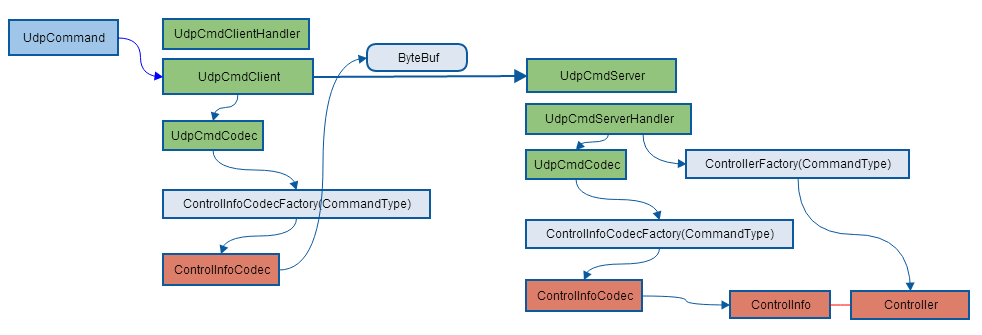
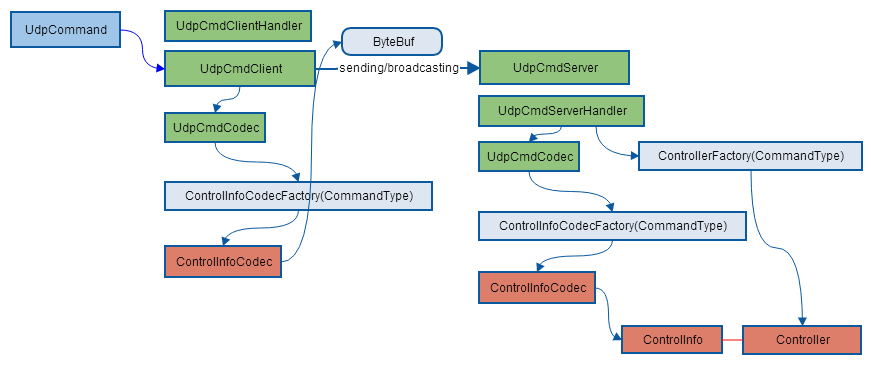
add readme for netty udp cmd

diff --git a/java/air-io-network/src/main/java/org/feuyeux/air/io/network/netty/udp/cmd2/core/UdpCmdClient.java b/java/air-io-network/src/main/java/org/feuyeux/air/io/network/netty/udp/cmd2/core/UdpCmdClient.java
@@ -25,20 +25,51 @@ public class UdpCmdClient {
         try {
             Bootstrap b = new Bootstrap();
             b.group(group)
-                    .channel(NioDatagramChannel.class)
-                    .option(ChannelOption.SO_BROADCAST, true)
-                    .handler(new ChannelInitializer<DatagramChannel>() {
-                        @Override
-                        public void initChannel(DatagramChannel ch) throws Exception {
-                            ch.pipeline().addLast(
-                                    //new LoggingHandler(LogLevel.INFO),
-                                    new UdpCmdClientHandler());
-                        }
-                    });
+              .channel(NioDatagramChannel.class)
+              .handler(new ChannelInitializer<DatagramChannel>() {
+                  @Override
+                  public void initChannel(DatagramChannel ch) throws Exception {
+                      ch.pipeline().addLast(
+                        //new LoggingHandler(LogLevel.INFO),
+                        new UdpCmdClientHandler());
+                  }
+              });
+            ChannelFuture f = b.connect(ENV.SERVER_IP, ENV.NETTY_PORT).sync();
+            Channel channel = f.channel();
+            ByteBuf data = UdpCmdCodec.encode(udpCommand);
+            DatagramPacket udpPacket = new DatagramPacket(data,
+              new InetSocketAddress(ENV.SERVER_IP, ENV.NETTY_PORT));
+            ChannelFuture cf = channel.writeAndFlush(udpPacket).sync();
+            cf.get(ENV.READ_TIMEOUT, TimeUnit.SECONDS);
+            logger.debug("UDP Command has been send.");
+            if (!cf.channel().closeFuture().await(ENV.CONNECT_TIMEOUT)) {
+                logger.info("UDP Command channel closed.");
+            }
+        } finally {
+            // Shut down the event loop to terminate all threads.
+            group.shutdownGracefully();
+        }
+    }
+
+    public void broadcast(UdpCommand udpCommand) throws InterruptedException, TimeoutException, ExecutionException {
+        EventLoopGroup group = new NioEventLoopGroup();
+        try {
+            Bootstrap b = new Bootstrap();
+            b.group(group)
+              .channel(NioDatagramChannel.class)
+              .option(ChannelOption.SO_BROADCAST, true)
+              .handler(new ChannelInitializer<DatagramChannel>() {
+                  @Override
+                  public void initChannel(DatagramChannel ch) throws Exception {
+                      ch.pipeline().addLast(
+                        //new LoggingHandler(LogLevel.INFO),
+                        new UdpCmdClientHandler());
+                  }
+              });
             Channel channel = b.bind(new InetSocketAddress(0)).sync().channel();
             ByteBuf data = UdpCmdCodec.encode(udpCommand);
             DatagramPacket udpPacket = new DatagramPacket(data,
-                    new InetSocketAddress(ENV.BROAD_CAST_IP, ENV.NETTY_PORT));
+              new InetSocketAddress(ENV.BROAD_CAST_IP, ENV.NETTY_PORT));
             ChannelFuture cf = channel.writeAndFlush(udpPacket).sync();
             cf.get(ENV.READ_TIMEOUT, TimeUnit.SECONDS);
             logger.debug("UDP Command has been send.");

diff --git a/java/air-io-network/src/test/java/org/feuyeux/air/io/network/netty/udp/cmd2/KeyCommandTest.java b/java/air-io-network/src/test/java/org/feuyeux/air/io/network/netty/udp/cmd2/KeyCommandTest.java
@@ -18,8 +18,9 @@ import java.util.concurrent.*;
 public class KeyCommandTest {
     private final static Logger logger = LogManager.getLogger(KeyCommandTest.class);
 
-    @Test
-    public void testTcpCommunication() throws IOException, InterruptedException, ExecutionException, TimeoutException {
+    @Test(timeout = 30L)
+    public void testSend() throws IOException, InterruptedException, ExecutionException, TimeoutException {
+        logger.debug("Test Send Command");
         final UdpCmdServer server = new UdpCmdServer();
         final UdpCmdClient client = new UdpCmdClient();
 
@@ -31,6 +32,7 @@ public class KeyCommandTest {
             public String call() throws Exception {
                 UdpCommand keyCommand = new UdpCommand(CommandType.KEY, new KeyControlInfo("KEY:13"));
                 client.send(keyCommand);
+                client.send(keyCommand);
                 return "Client test DONE";
             }
         });
@@ -39,7 +41,7 @@ public class KeyCommandTest {
             @Override
             public String call() throws Exception {
                 try {
-                    server.init(false);
+                    server.init(true);
                 } catch (Exception e) {
                     logger.error(e);
                     return "Server test Failed.";
@@ -52,6 +54,47 @@ public class KeyCommandTest {
 
         for (int i = 0; i < futures.size(); i++) {
             String result = futures.get(i).get(20, TimeUnit.SECONDS);
+            logger.debug(result);
+        }
+        e.shutdown();
+    }
+
+    @Test(timeout = 30L)
+    public void testBroadcast() throws IOException, InterruptedException, ExecutionException, TimeoutException {
+        logger.debug("Test Broadcast Command");
+        final UdpCmdServer server = new UdpCmdServer();
+        final UdpCmdClient client = new UdpCmdClient();
+
+        ExecutorService e = Executors.newFixedThreadPool(2);
+
+        Collection<Callable<String>> tasks = new ArrayList<>();
+        tasks.add(new Callable<String>() {
+            @Override
+            public String call() throws Exception {
+                UdpCommand keyCommand = new UdpCommand(CommandType.KEY, new KeyControlInfo("KEY:13"));
+                client.broadcast(keyCommand);
+                client.broadcast(keyCommand);
+                return "Client test DONE";
+            }
+        });
+
+        tasks.add(new Callable<String>() {
+            @Override
+            public String call() throws Exception {
+                try {
+                    server.init(true);
+                } catch (Exception e) {
+                    logger.error(e);
+                    return "Server test Failed.";
+                }
+                return "Server test DONE";
+            }
+        });
+
+        List<Future<String>> futures = e.invokeAll(tasks);
+
+        for (int i = 0; i < futures.size(); i++) {
+            String result = futures.get(i).get();
             logger.debug(result);
         }
         e.shutdown();

diff --git a/java/air-io-network/src/main/java/org/feuyeux/air/io/network/netty/udp/cmd2/core/UdpCmdServerHandler.java b/java/air-io-network/src/main/java/org/feuyeux/air/io/network/netty/udp/cmd2/core/UdpCmdServerHandler.java
@@ -1,5 +1,6 @@
 package org.feuyeux.air.io.network.netty.udp.cmd2.core;
 
+import io.netty.buffer.ByteBuf;
 import io.netty.buffer.Unpooled;
 import io.netty.channel.ChannelHandlerContext;
 import io.netty.channel.SimpleChannelInboundHandler;
@@ -24,9 +25,8 @@ public class UdpCmdServerHandler extends SimpleChannelInboundHandler<DatagramPac
         logger.debug("UDP Command Client response:{}", udpCommand);
         Controller controller = ControllerFactory.getInstance(udpCommand.getType());
         controller.process(udpCommand.getControlInfo());
-
-        ctx.write(new DatagramPacket(
-                Unpooled.copiedBuffer("handled:" + udpCommand, CharsetUtil.UTF_8), datagramPacket.sender()));
+        ByteBuf responseMessage = Unpooled.copiedBuffer("handled:" + udpCommand, CharsetUtil.UTF_8);
+        ctx.write(new DatagramPacket(responseMessage, datagramPacket.sender()));
     }
 
     @Override

diff --git a/java/air-io-network/src/main/java/org/feuyeux/air/io/network/netty/udp/cmd2/core/UdpCmdServer.java b/java/air-io-network/src/main/java/org/feuyeux/air/io/network/netty/udp/cmd2/core/UdpCmdServer.java
@@ -3,7 +3,6 @@ package org.feuyeux.air.io.network.netty.udp.cmd2.core;
 import io.netty.bootstrap.Bootstrap;
 import io.netty.channel.ChannelFuture;
 import io.netty.channel.ChannelInitializer;
-import io.netty.channel.ChannelOption;
 import io.netty.channel.EventLoopGroup;
 import io.netty.channel.nio.NioEventLoopGroup;
 import io.netty.channel.socket.DatagramChannel;
@@ -24,7 +23,6 @@ public class UdpCmdServer {
             Bootstrap b = new Bootstrap();
             b.group(group)
                     .channel(NioDatagramChannel.class)
-                    .option(ChannelOption.SO_BROADCAST, true)
                     .handler(new ChannelInitializer<DatagramChannel>() {
                         @Override
                         protected void initChannel(DatagramChannel ch) throws Exception {

diff --git a/java/air-io-network/src/main/java/org/feuyeux/air/io/network/netty/tcp/NettyTCPTimeClient.java b/java/air-io-network/src/main/java/org/feuyeux/air/io/network/netty/tcp/NettyTCPTimeClient.java
@@ -3,7 +3,6 @@ package org.feuyeux.air.io.network.netty.tcp;
 import io.netty.bootstrap.Bootstrap;
 import io.netty.channel.ChannelFuture;
 import io.netty.channel.ChannelInitializer;
-import io.netty.channel.ChannelOption;
 import io.netty.channel.EventLoopGroup;
 import io.netty.channel.nio.NioEventLoopGroup;
 import io.netty.channel.socket.SocketChannel;
@@ -24,7 +23,6 @@ public class NettyTCPTimeClient {
             Bootstrap b = new Bootstrap();
             b.group(group)
                     .channel(NioSocketChannel.class)
-                    .option(ChannelOption.SO_BROADCAST, true)
                     .handler(new ChannelInitializer<SocketChannel>() {
                         @Override
                         public void initChannel(SocketChannel ch) throws Exception {

diff --git a/java/air-io-network/src/main/java/org/feuyeux/air/io/network/common/ENV.java b/java/air-io-network/src/main/java/org/feuyeux/air/io/network/common/ENV.java
@@ -23,8 +23,8 @@ public interface ENV {
     int BYTE_SIZE_1K = 1024;
     int BYTE_SIZE_2K = 2048;
     int IDLE_TIME = 10;
-    long CONNECT_TIMEOUT = 15 * 1000L; // 15 seconds
-    long READ_TIMEOUT = 10;//10 seconds
+    long CONNECT_TIMEOUT = 8 * 1000L; // 15 seconds
+    long READ_TIMEOUT = 5;//10 seconds
     String MINA_LOGGER = "logger";
     String MINA_CODEC = "codec";
 }

diff --git a/java/air-io-network/src/main/java/org/feuyeux/air/io/network/netty/udp/cmd2/readme.md b/java/air-io-network/src/main/java/org/feuyeux/air/io/network/netty/udp/cmd2/readme.md
@@ -3,7 +3,7 @@
 - dependency:netty5.0.0.Alpha1
 
 ### network topology ###
-One UDP Command Server receiving Clients' broadcast via UDP nio Channel.
+One UDP Command Server receiving Clients' sending or broadcasting message via UDP nio Channel.
 When UDP Command Server receives command, it will choose a related controller to process this command.
  
 ![topology.png](topology.png)
